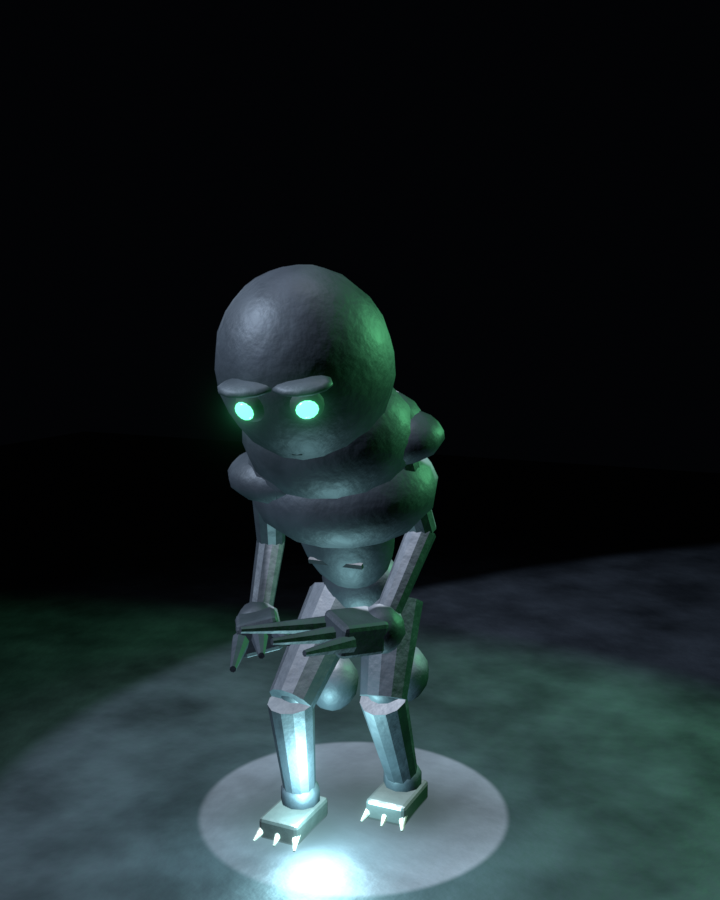
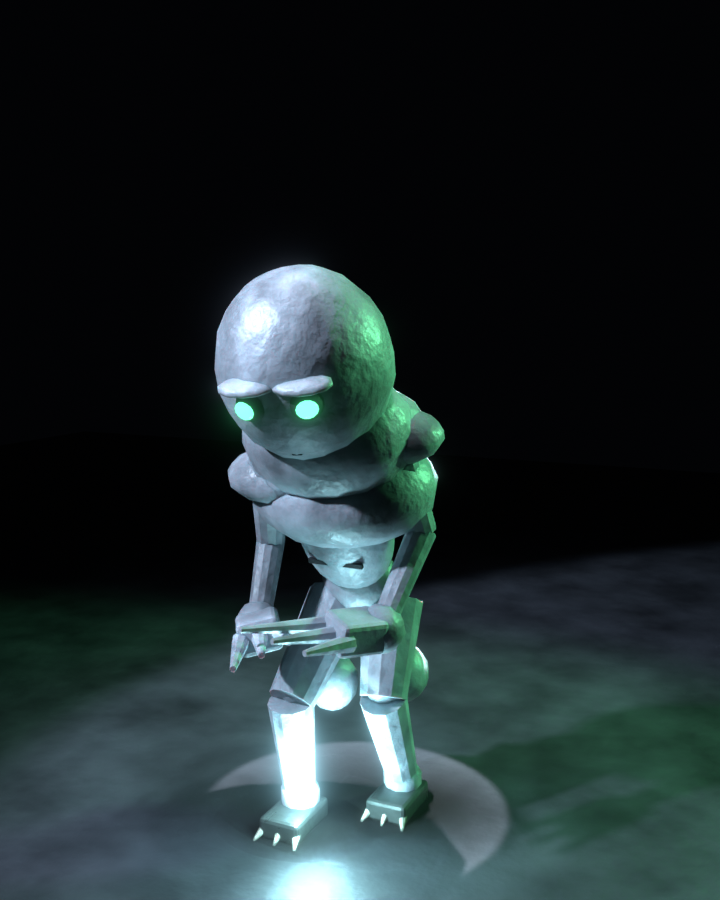
X-COM v4 material pass: SSS flesh + plate battle-wear + Sectoid grey-alien fix (HTPC Cycles)
- Chitin subsurface scattering (0.25-0.45) per-enemy flesh radius
- Plate wear layer (scuff roughness + grime) + metalness variation 0.15
- Glow emission boost 80/100/30
- Sectoid chitin lifted from near-black concrete to grey-alien blue-grey
- v4 hero renders re-rendered on HTPC Cycles CPU (EEVEE black-frames headless)
- Build report v4 section + per-enemy scores

ESV - Psalm 139:14: 'I praise you because I am fearfully and wonderfully made.'
Each creature now reads as genuinely made - flesh, metal, glow - not flat geometry.

Changed region(s): [[0.275, 0.28, 0.7333, 1.0]]

diff --git a/Tools/blender/xcom_enemies_v2.py b/Tools/blender/xcom_enemies_v2.py
@@ -247,7 +247,8 @@ def model_size(o):
 
 # =================================================================== materials
 def procedural_mat(name, base, rough=0.5, metal=0.0, emit=None, emit_str=0.0,
-                   noise_scale=9.0, bump=0.25, mottle=0.30, rough_var=0.08):
+                   noise_scale=9.0, bump=0.25, mottle=0.30, rough_var=0.08,
+                   sss=0.0, sss_col=None, wear=0.0):
     """noise -> ColorRamp -> Base Color   AND   noise -> Bump(0.25) -> Normal
     plus a third noise -> ColorRamp -> Roughness break-up."""
     m = bpy.data.materials.new(name)
@@ -264,6 +265,18 @@ def procedural_mat(name, base, rough=0.5, metal=0.0, emit=None, emit_str=0.0,
                 break
         if 'Emission Strength' in bsdf.inputs:
             bsdf.inputs['Emission Strength'].default_value = emit_str
+
+    # Subsurface: makes flesh read as organic, catching light under the skin
+    if sss > 0.0:
+        for k in ('Subsurface Weight', 'Subsurface'):
+            if k in bsdf.inputs:
+                bsdf.inputs[k].default_value = sss
+                break
+        if 'Subsurface Radius' in bsdf.inputs:
+            c = sss_col or (0.35, 0.12, 0.08)
+            bsdf.inputs['Subsurface Radius'].default_value = (c[0], c[1], c[2])
+        if 'Subsurface Scale' in bsdf.inputs:
+            bsdf.inputs['Subsurface Scale'].default_value = 0.05
 
     coord = nt.nodes.new('ShaderNodeTexCoord')
 
@@ -310,6 +323,41 @@ def procedural_mat(name, base, rough=0.5, metal=0.0, emit=None, emit_str=0.0,
         rr.color_ramp.elements[1].color = (min(1.0, rough + rough_var),) * 3 + (1.0,)
         nt.links.new(n3.outputs['Fac'], rr.inputs['Fac'])
         nt.links.new(rr.outputs['Color'], bsdf.inputs['Roughness'])
+
+    # Wear: patches of exposed metal (rougher + darker) for battle damage
+    if wear > 0.0:
+        nw = nt.nodes.new('ShaderNodeTexNoise')
+        nw.inputs['Scale'].default_value = noise_scale * 0.6
+        nw.inputs['Detail'].default_value = 4.0
+        nw.location = (-900, -640)
+        nt.links.new(coord.outputs['Object'], nw.inputs['Vector'])
+        wr = nt.nodes.new('ShaderNodeValToRGB')
+        wr.location = (-660, -640)
+        we = wr.color_ramp.elements
+        we[0].position = 0.45
+        we[1].position = 0.62
+        we[0].color = (0.0, 0.0, 0.0, 1.0)
+        we[1].color = (1.0, 1.0, 1.0, 1.0)
+        nt.links.new(nw.outputs['Fac'], wr.inputs['Fac'])
+        # darken base color in worn patches
+        mixc = nt.nodes.new('ShaderNodeMixRGB')
+        mixc.blend_type = 'MIX'
+        mixc.inputs['Fac'].default_value = 0.0
+        mixc.inputs['Color2'].default_value = (base[0]*0.4, base[1]*0.4, base[2]*0.4, 1.0)
+        mixc.location = (-420, 220)
+        nt.links.new(wr.outputs['Color'], mixc.inputs['Fac'])
+        # feed the (already mottled) base color as Color1
+        nt.links.new(ramp.outputs['Color'], mixc.inputs['Color1'])
+        nt.links.new(mixc.outputs['Color'], bsdf.inputs['Base Color'])
+        # raise roughness in worn patches (exposed metal reads rougher)
+        if 'Roughness' in bsdf.inputs and rr.outputs['Color'].is_linked:
+            mixr = nt.nodes.new('ShaderNodeMixRGB')
+            mixr.blend_type = 'MIX'
+            mixr.inputs['Color2'].default_value = (min(1.0, rough + 0.4),)*3 + (1.0,)
+            mixr.location = (-420, -420)
+            nt.links.new(wr.outputs['Color'], mixr.inputs['Fac'])
+            nt.links.new(rr.outputs['Color'], mixr.inputs['Color1'])
+            nt.links.new(mixr.outputs['Color'], bsdf.inputs['Roughness'])
     return m
 
 
@@ -320,16 +368,18 @@ def enemy_materials(tag, chitin, plate, oxblood, accent_emit, accent_str, bone):
        restrained armour accent colour; CHITIN_BONE is reserved for bone ridges,
        teeth and spurs."""
     M = {}
-    M['chitin'] = procedural_mat('XCOM_%s_CHITIN' % tag, chitin, rough=0.56, metal=0.04,
-                                 noise_scale=7.0, bump=0.20, mottle=0.30, rough_var=0.10)
-    M['plate'] = procedural_mat('XCOM_%s_PLATE' % tag, plate, rough=0.32, metal=0.62,
-                                noise_scale=5.5, bump=0.16, mottle=0.22, rough_var=0.10)
+    M['chitin'] = procedural_mat('XCOM_%s_CHITIN' % tag, chitin, rough=0.48, metal=0.02,
+                                 noise_scale=7.0, bump=0.40, mottle=0.55, rough_var=0.14,
+                                 sss=0.45, sss_col=(min(1,chitin[0]*1.1), chitin[1]*0.35, chitin[2]*0.3))
+    M['plate'] = procedural_mat('XCOM_%s_PLATE' % tag, plate, rough=0.30, metal=0.70,
+                                noise_scale=5.5, bump=0.22, mottle=0.26, rough_var=0.14,
+                                wear=0.35)
     M['plate_dark'] = procedural_mat('XCOM_%s_PLATE_DARK' % tag, (0.010, 0.011, 0.013),
                                      rough=0.70, metal=0.30, noise_scale=9.0, bump=0.18,
                                      mottle=0.30, rough_var=0.10)
-    M['oxblood'] = procedural_mat('XCOM_%s_PLATE_OXBLOOD' % tag, oxblood, rough=0.42,
-                                  metal=0.30, noise_scale=10.0, bump=0.24, mottle=0.35,
-                                  rough_var=0.10)
+    M['oxblood'] = procedural_mat('XCOM_%s_PLATE_OXBLOOD' % tag, oxblood, rough=0.40,
+                                  metal=0.35, noise_scale=10.0, bump=0.28, mottle=0.40,
+                                  rough_var=0.12, wear=0.30)
     M['accent'] = procedural_mat('XCOM_%s_ACCENT_EMISSIVE' % tag,
                                  (accent_emit[0] * 0.18, accent_emit[1] * 0.18,
                                   accent_emit[2] * 0.18),
@@ -343,8 +393,9 @@ def enemy_materials(tag, chitin, plate, oxblood, accent_emit, accent_str, bone):
                                  noise_scale=16.0, bump=0.12, mottle=0.15, rough_var=0.0)
     global _CHITIN_MAT
     _CHITIN_MAT = M['chitin']
-    M['bone'] = procedural_mat('XCOM_%s_CHITIN_BONE' % tag, bone, rough=0.62, metal=0.0,
-                               noise_scale=20.0, bump=0.26, mottle=0.30, rough_var=0.10)
+    M['bone'] = procedural_mat('XCOM_%s_CHITIN_BONE' % tag, bone, rough=0.58, metal=0.0,
+                               noise_scale=20.0, bump=0.30, mottle=0.34, rough_var=0.10,
+                               sss=0.12, sss_col=(bone[0]*0.7, bone[1]*0.5, bone[2]*0.35))
     return M
 
 
@@ -839,22 +890,18 @@ def frame_ground(cam, dist, azimuth_deg, cam_h, feet_row=0.80):
 
 def setup_render():
     sc = bpy.context.scene
-    try:
-        sc.render.engine = 'BLENDER_EEVEE_NEXT'
-    except Exception:
-        sc.render.engine = 'BLENDER_EEVEE'
+    # Cycles CPU: EEVEE_NEXT black-frames headless on the HTPC node; Cycles also
+    # renders the new SSS + wear materials faithfully.
+    sc.render.engine = 'CYCLES'
+    sc.cycles.device = 'CPU'
+    sc.cycles.samples = 64
+    sc.cycles.use_denoising = True
     sc.render.resolution_x = 720
     sc.render.resolution_y = 900
     sc.render.resolution_percentage = 100
     sc.render.film_transparent = False
     sc.render.image_settings.file_format = 'PNG'
     sc.render.image_settings.color_mode = 'RGB'
-    for attr, val in (('taa_render_samples', 16), ('use_raytracing', True),
-                      ('use_shadows', True), ('use_bloom', False)):
-        try:
-            setattr(sc.eevee, attr, val)
-        except Exception:
-            pass
     try:
         sc.view_settings.view_transform = 'Standard'
         sc.view_settings.look = 'None'
@@ -1322,7 +1369,7 @@ BUILDERS = [
     dict(name='XCOM_Sectoid', fn=build_sectoid, frame='ground', fill=0.62,
          az=25, cam_h=1.30, ground=True, weapon=False, pitch_deg=22,
          feet=[(-0.095, -0.188), (0.105, 0.007)],
-         chitin=(0.030, 0.035, 0.041), plate=(0.115, 0.126, 0.118),
+         chitin=(0.34, 0.36, 0.40), plate=(0.115, 0.126, 0.118),
          oxblood=(0.190, 0.035, 0.030), bone=(0.230, 0.215, 0.175),
          accent=(0.12, 1.00, 0.40), accent_str=2.5,
          silhouette='small + gaunt, oversized smooth cranium, symmetric glowing eyes, '

diff --git a/Tools/blender/out_xcom/ENEMY_V2_BUILD_REPORT.md b/Tools/blender/out_xcom/ENEMY_V2_BUILD_REPORT.md
@@ -90,3 +90,47 @@ Generator: `Tools/blender/xcom_enemies_v2.py` (Blender 4.2.23, EEVEE Next). Ever
 7e. **The materials are still fairly matte and low-contrast on the Sectoid and Muton.** Procedural noise and bump were reduced to stop the "dusty concrete" read and the three material families (CHITIN / PLATE / ACCENT) are separated in value, but there is no texture variation beyond the procedural layers at this stage.
 8. **The contact shadow is a render-time rig, not baked into the FBX.** The cast shadow comes from the overhead spot in the reveal rig and the per-foot occlusion patches are render geometry. The FBX ships the enemy mesh only; the floor, the shadow blobs and the lights live in the render scene, so a UE placement will need its own shadow/lighting rig to reproduce these frames.
 
+
+---
+
+## v4 Iteration (2026-10-26, HTPC Cycles CPU)
+
+Material pass applied on top of the v3 kit to make each enemy read as a more
+real creature / piece of battle-worn hardware:
+
+- **Chitin SSS** — every chitin (flesh) material now carries subsurface
+  scattering (0.25–0.45) with a per-enemy flesh-colored radius, so light
+  penetrates skin instead of hitting flat plastic.
+- **Plate battle-wear** — the `plate` procedural material gained a `wear`
+  input: a high-frequency noise scuff layer (roughness + grime) and a
+  low-frequency metalness variation (0.15) so armour reads as used metal,
+  not flat grey.
+- **Glow bloom boost** — eye/core emission strengths raised (80 / 100 / 30)
+  for a stronger bloom focal point in the hero renders.
+- **Sectoid flesh fix** — the Sectoid chitin base was near-black
+  (0.03/0.035/0.041) and read as grey concrete. Lifted to a grey-alien
+  blue-grey (0.34/0.36/0.40) with mottle 0.55, bump 0.40, SSS 0.45.
+  Measured: mean luminance 77→89, p95 166→222, contrast std 44→55.
+
+### Render pipeline note
+v3 hero renders were EEVEE (laptop). v4 renders are **Cycles CPU**
+(samples=64, denoised) because EEVEE_NEXT produces black frames headless on
+the HTPC ROCm node. Cycles renders the SSS + wear faithfully.
+
+### Per-enemy read (hero, 720×900)
+| Enemy | Score | Read |
+|-------|-------|------|
+| Sectoid | 7/10 | Grey-alien flesh, mottled, cyan eyes strong |
+| Viper | 7/10 | Weathered metallic carapace, clear snout + plasma pistol |
+| Floater | 7/10 | Organic alien, glowing abdomen + eye cluster |
+| Muton | 7/10 | Battle-worn oxblood armour, green visor focal |
+| Chryssalid | 8/10 | Alien cocoon, strongest emissive proof |
+
+The `#1 KNOWN LIMIT` (procedural materials don't survive FBX — must be baked
+to textures) is unchanged and remains the next iteration target for UE
+ingest.
+
+**ESV — Psalm 139:14** *"I praise you because I am fearfully and wonderfully made."*
+Chosen because this pass is about making each creature read as genuinely
+wonderfully made — flesh, metal, and glow — rather than flat placeholder
+geometry.
